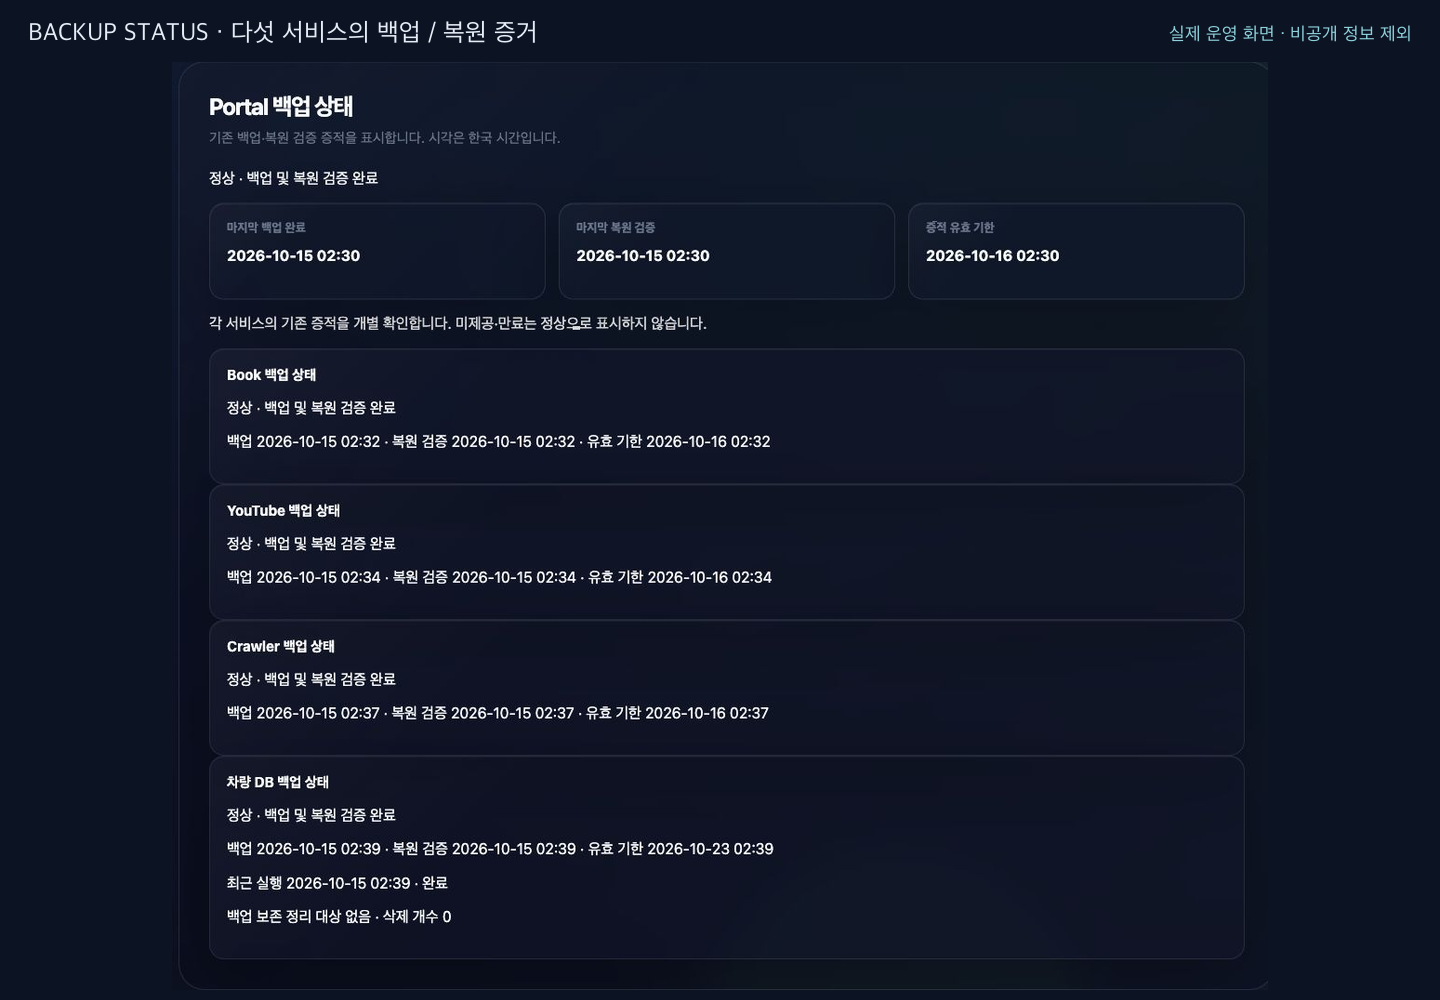
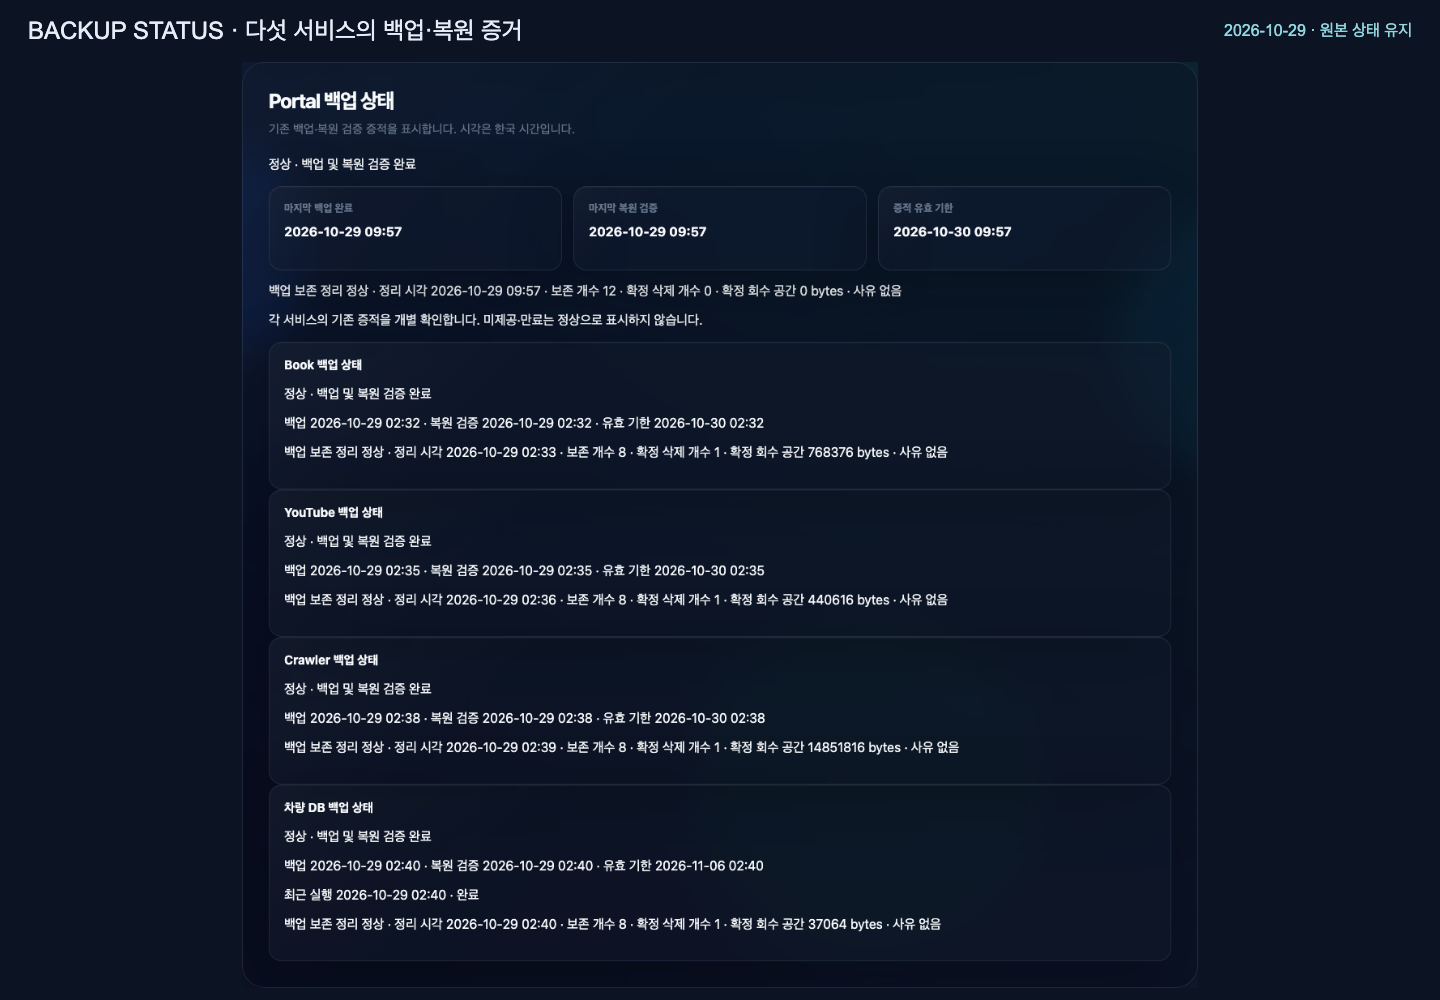
문서: README 화면과 운영 구성도 최신화

diff --git a/tests/test_documentation_index.py b/tests/test_documentation_index.py
@@ -185,7 +185,10 @@ class DocumentationIndexTests(unittest.TestCase):
         self.assertIn("crawler-worker Service", content)
         self.assertIn("youtube-memo Service", content)
         self.assertIn("book-memo Service", content)
-        self.assertIn("서비스별 PVC · 단일 writer", content)
+        self.assertIn("Portal: 평상시 1개 · 교체 중 최대 2개 · 공유 세션", content)
+        self.assertIn("Book·YouTube·Crawler: 단일 writer", content)
+        self.assertIn("1. Portal (온라인)", content)
+        self.assertIn("YES24 검색 · 목차 선택 · 메모", content)
         self.assertIn("Portal PVC · Crawler PVC · YouTube PVC · Book PVC", content)
         self.assertIn("비공개 callback upstream", content)
         self.assertIn("GitHub Actions · 약 5분 공개 health", content)

diff --git a/README.md b/README.md
@@ -15,7 +15,7 @@
 | 영역 | 구현·운영 범위 |
 |---|---|
 | 애플리케이션 | FastAPI API, 서버 렌더링 화면, 서비스 통합 검색, 파일·메모·기사·차량 데이터 관리 |
-| 데이터 보호 | SQLite 트랜잭션, 요청 중복 방지, 편집 충돌 검사, 파일 배타적 생성, 단일 writer |
+| 데이터 보호 | SQLite 트랜잭션, 요청 중복 방지, 편집 충돌 검사, 파일 배타적 생성, 앱별 writer 경계·Portal 공유 상태 |
 | 운영 | K3s·Compose 실행 위치 구분, 이미지 배포·원복, 상태 검사, 제한형 복구 |
 | 관측과 복구 | 내부 지표·외부 health, 장애 알림, 암호화 백업·격리 복원, 보관 정리·누락 감지 |
 | 검증 | 서비스별 회귀 테스트, 브라우저 검사, 운영 도구 계약 검사, CI·보안 검사 |
@@ -28,13 +28,13 @@
 | 파일함 | 다중 업로드, 폴더·파일 검색/이동/이름 변경, ZIP 다운로드, 휴지통·충돌 방지 복원, 개인 기사 보관 |
 | News Hub | RSS 뉴스 수집·검색·보관, Telegram 알림 분류, 수집 최신성 확인 |
 | YouTube Memo | 영상 등록, 타임스탬프 메모, 편집·태그·페이지 이동, JSON/Markdown 내보내기·선택 내보내기·JSON 가져오기·휴지통 |
-| Book Memo | 책 검색·책장, 목차 체크·코멘트·메모, 편집·페이지 이동, JSON/Markdown 내보내기·선택 내보내기·JSON 가져오기·휴지통 |
+| Book Memo | YES24 도서 검색·목차 미리보기·선택 저장, 책장·진행률·코멘트·메모, JSON/Markdown 내보내기·선택 내보내기·JSON 가져오기·휴지통 |
 | 차량관리 | Hyundai 연동, 운행 기록·주행거리·정비 주기 관리, Telegram 명령과 운행 종료 알림 |
 | HomeOps | 허용된 대상의 진단·승인형 조치, 재시작 요청 중복 방지, 실행 이력 |
 
 ## 주요 화면
 
-서비스 이름 옆 화살표를 누르면 설명과 이미지가 펼쳐집니다. 이미지는 **1440 × 1000** 크기이며 촬영 당시 화면입니다. [촬영 범위·기존 예시 안내](docs/images/README.md)
+서비스 이름 옆 화살표를 누르면 설명과 이미지가 펼쳐집니다. 이미지는 **1440 × 1000** 크기이며 조회 시점의 상태입니다. 서비스 화면은 2026-10-29, Grafana는 2026-10-30에 다시 촬영했으며, 과거 Telegram 예시는 별도로 표시했습니다. [촬영 범위·기존 예시 안내](docs/images/README.md)
 
 <details>
 <summary>Portal · 서비스 허브와 전체 검색</summary>
@@ -57,9 +57,13 @@
 <details>
 <summary>Book Memo · 책장과 기록 관리</summary>
 
-책 검색·진행률·목차 진입점과 로그인 후 가져오기·내보내기 위치를 확인합니다. 긴 목차는 화면에서 접어 책장이 보이도록 촬영했습니다.
+YES24 도서 검색과 로그인 후 가져오기·선택 내보내기 위치를 확인합니다. 개인 책장 대신 공개 도서의 검색 결과를 촬영했습니다.
 
-<img src="docs/images/book-memo.png" alt="현재 Book Memo의 정렬된 가져오기 버튼 검색 내보내기와 책장" width="100%">
+<img src="docs/images/book-memo.png" alt="2026-10-29 Book Memo의 YES24 도서 검색과 가져오기·내보내기" width="100%">
+
+목차는 미리보기에서 원하는 항목을 골라 저장합니다. 실제 조회한 332개 후보 중 화면에 보이는 구간이며, 최대 500개를 넘으면 부분 표시 안내가 나옵니다. 촬영 중에는 책·목차를 저장하지 않았습니다.
+
+<img src="docs/images/book-toc-preview.png" alt="YES24 목차 미리보기의 출처 링크·선택 개수·목차 체크박스" width="100%">
 
 </details>
 
@@ -107,7 +111,7 @@
 
 외부 웹 요청은 Cloudflare Tunnel → Compose의 Caddy → K3s Service로 전달됩니다. Portal은 NodePort로 진입하고, 뉴스·책·영상은 각각의 K3s Service가 처리합니다. 차량 OAuth callback은 Caddy를 거치지 않는 별도 Tunnel 경로입니다. 구성도는 실제 실행 중인 서비스·저장소·timer와 코드에 정의된 데이터 흐름을 대조해 작성했습니다.
 
-K3s의 웹 앱 4개와 Compose의 차량관리·SystemAgent·HomeOps는 역할을 나눠 운영합니다. 백업은 단일 timer가 Portal → Book → YouTube → Crawler → 차량 DB 순으로 실행하며, 차량 백업 감시 결과는 고정 ConfigMap → Relay → Portal 관리자 화면으로 전달됩니다. 개별 실행의 성공 여부는 구성도와 별도로 실제 복원 증거를 확인합니다.
+K3s의 웹 앱 4개와 Compose의 차량관리·SystemAgent·HomeOps는 역할을 나눠 운영합니다. Portal은 평상시 1개 replica이며 승인된 롤링 교체 중 최대 2개를 허용하고 공유 세션·파일 쓰기 조정을 사용합니다. Book·YouTube·Crawler는 단일 writer를 유지합니다. 백업은 단일 timer가 Portal 온라인 snapshot → Book → YouTube → Crawler → 차량 DB 순으로 실행하며, 차량 백업 감시 결과는 고정 ConfigMap → Relay → Portal 관리자 화면으로 전달됩니다. 개별 실행의 성공 여부는 구성도와 별도로 실제 복원 증거를 확인합니다.
 
 | 영역 | 기술 | 선택 이유 |
 |---|---|---|
@@ -166,6 +170,8 @@ Portal·Book·YouTube·Crawler는 K3s의 Deployment·Service·readiness·PVC를 
 
 배포와 복구 전에 runtime marker와 실제 서비스 상태를 대조합니다. 표시가 누락·중복되거나 신뢰할 수 없으면 작업을 중단하고 K3s 소유 서비스는 Docker 동작에서 제외합니다. N100 제한형 자동복구와 HomeOps는 허용 대상·조건·실행 간격·횟수 제한을 사용합니다.
 
+Portal은 공유 세션·파일 쓰기 조정·온라인 snapshot을 검증한 별도 범위에서 롤링 교체를 사용합니다. Book·YouTube·Crawler의 단일 writer 제약과 구분하며, 단일 호스트의 일반적인 다중 writer 확장을 의미하지 않습니다.
+
 근거: [실행 위치 검사](scripts/runtime-service-state-reader.py), [HomeOps 동작](homeops-executor/app/services/docker_ops.py), [실행 위치 계약](tests/test_runtime_service_state.py)
 
 ### 6. 백업 파일 존재와 실제 복구 가능성 구분
@@ -180,7 +186,7 @@ Portal·Book·YouTube·Crawler는 K3s의 Deployment·Service·readiness·PVC를 
 
 | 항목 | 현재 운영 방식 |
 |---|---|
-| 백업 순서 | 매일 02:30 KST Portal→Book→YouTube→Crawler→차량 DB. 기존 네 단계가 모두 성공한 뒤 차량 호출 |
+| 백업 순서 | 매일 02:30 KST Portal 온라인 snapshot→Book→YouTube→Crawler→차량 DB. 기존 네 단계가 모두 성공한 뒤 차량 호출 |
 | 변경 감지 | 차량 DB 내용이 같으면 업로드·원격 정리 생략. 일요일에는 실제 백업·복원 검증 |
 | 차량 보관 | 일간 7·주간 4·월간 3 및 최신 7개 안전 하한. 성공 실행 기록은 30일 후 정리하되 최신·실패·불확실 기록과 증적 보존 |
 | 백업 누락 | 서버가 5분마다 완료 기록 확인,09:00 이후 당일 미완료 통보. 공유잠금 점유 시 유예 |
@@ -191,7 +197,7 @@ Portal·Book·YouTube·Crawler는 K3s의 Deployment·Service·readiness·PVC를 
 
 ### 모니터링 화면
 
-아래는 N100에서 촬영한 기존 Grafana 화면 예시입니다. 현재 수치의 증거로 사용하지 않습니다. WSL2 환경에 맞춰 node-exporter를 비활성화한 구성이라 상단의 일부 CPU·메모리 사용률 패널은 `No data`로 표시됩니다. 조회 가능한 그래프와 누락된 지표를 구분해 사용하고 있습니다.
+아래는 실제 N100 Grafana 대시보드를 다시 조회한 화면입니다. 자원 요청·제한과 CPU 추이를 확인했으며, 일부 사용률·CPU Quota 패널의 `No data`도 원본대로 남겼습니다. WSL2의 node-exporter 비활성화와 패널별 수집 한계를 구분하며, 촬영 시점의 수치를 지속 가용성 증거로 확대하지 않습니다.
 
 ![Grafana K3s 모니터링 화면](docs/images/grafana-k3s-overview.png)
 
@@ -214,9 +220,9 @@ CI 산출물과 운영 증적은 90일 보관하며, 장기 보관이 필요한 
 
 ## 현재 한계와 검증 범위
 
-단일 N100과 WSL2 구성이라 호스트 장애를 견디는 다중 노드 고가용성은 제공하지 않습니다. SQLite·파일 기반 단일 writer를 전제로 하며 다중 쓰기 인스턴스 확장에는 저장 구조 변경이 필요합니다. Grafana 일부 호스트 지표는 수집되지 않으며 운영 통신 차단 정책은 미적용 상태입니다.
+단일 N100과 WSL2 구성이라 호스트 장애를 견디는 다중 노드 고가용성은 제공하지 않습니다. Book·YouTube·Crawler는 단일 writer를 유지하며, Portal의 동시 쓰기는 같은 호스트의 제한된 롤링 교체·공유 상태 검증 범위입니다. 일반적인 다중 호스트 쓰기 확장과 구분합니다. Grafana 일부 호스트 지표는 수집되지 않으며 운영 통신 차단 정책은 미적용 상태입니다.
 
-메모 재시도 보호는 지정된 쓰기 경로에 적용됩니다. 탭 종료 후 초안 복구나 모든 중간 데이터 변경의 복원은 보장하지 않습니다. SLI·에러 버짓·RTO/RPO의 종합 실측과 인증의 장기 유지·Telegram 단말 수신은 추가 확인이 필요합니다. 차량을 포함한 정기 실행과 기간 만료 사본의 실제 자동 삭제는 이미지나 CI 대신 각 실행 기록·복원 증거·삭제 결과를 대조해 판단합니다.
+메모 재시도 보호는 지정된 쓰기 경로에 적용됩니다. 탭 종료 후 초안 복구나 모든 중간 데이터 변경의 복원은 보장하지 않습니다. SLI·에러 버짓·전체 RTO/RPO의 종합 실측과 인증의 장기 유지는 추가 확인이 필요합니다. 합성 경보의 전송·시험 메시지의 Telegram 단말 수신은 확인했으며 실제 장애의 자연 발생 시 동작은 별도 관찰합니다. 차량을 포함한 정기 실행과 기간 만료 사본의 실제 자동 삭제는 이미지나 CI 대신 각 실행 기록·복원 증거·삭제 결과를 대조해 판단합니다.
 
 ## 빠른 상태 확인
 

diff --git a/docs/images/README.md b/docs/images/README.md
@@ -8,23 +8,25 @@
 
 | 이미지 | 반영 내용 | 원본·표시 범위 | 비고 |
 |---|---|---|---|
-| [Portal](portal-dashboard.png) | 서비스 카드와 전체 검색 대상 선택 | 현재 공개 서비스 재촬영 | 미구현 자동매매 카드는 실제 표시인 `나중에` 유지 |
-| [News Hub](news-hub.png) | 수집 최신성·성공 시각과 세계 경제·IT·AI 주제 | 현재 공개 서비스 재촬영 | 강제 수집 미실행 |
-| [Book Memo](book-memo.png) | 검색·책장·목차 진입점·가져오기·내보내기 | 현재 공개 서비스 재촬영 | 목차 접기만 수행, 쓰기·삭제 미실행 |
-| [YouTube Memo](youtube-memo.png) | 영상 등록·목록·가져오기·내보내기 | 현재 공개 서비스 재촬영 | 로그인 전 쓰기 제한 유지 |
-| [파일함](file-manager.png) | 인증된 파일 작업 도구 | 현재 운영 서버 HTML을 임시 로컬 뷰어에서 촬영 | 개인 파일 정보 제외, 데이터 작업 미실행 |
-| [관리자 상태](admin-status.png) | 서버 상태와 Portal 백업 요약 | 현재 운영 서버 HTML을 임시 로컬 뷰어에서 촬영 | 내부 주소·보안 이벤트 상세 제외 |
-| [백업 상태](admin-backup-status.png) | Portal·Book·YouTube·Crawler·차량 DB 백업·복원 증거 | 같은 운영 관리자 응답의 백업 영역만 촬영 | 조회 시점의 원본 상태 유지 |
-| [Grafana](grafana-k3s-overview.png) | K3s 자원 요청·제한과 네임스페이스 그래프 | 기존 실제 촬영 예시의 비율·내용 보존 | 현재 수치 아님, 일부 사용률 패널 `No data` 유지 |
-| [차량 Telegram](car-care-telegram-status.png) | 운행·정비 알림 형식 | 기존 실제 촬영 예시의 비율·내용 보존 | 현재 차량 상태 아님, 추가 명령·메시지 전송 없음 |
-| [운영 구성도](personal-server-architecture-v2.svg) | 공개 경로·K3s/Compose 배치·PVC·다섯 단계 백업·상태 전달·관측 | 현재 코드·실제 실행 주체·timer와 대조해 재작성 | 실시간 지표나 개별 백업 성공의 증거 아님 |
+| [Portal](portal-dashboard.png) | 서비스 카드와 전체 검색 대상 선택 | 2026-10-29 공개 서비스 조회 | 미구현 자동매매 카드는 실제 표시인 `나중에` 유지 |
+| [News Hub](news-hub.png) | 수집 최신성·성공 시각과 세계 경제·IT·AI 주제 | 2026-10-29 공개 서비스 조회 | 강제 수집 미실행 |
+| [Book Memo](book-memo.png) | YES24 도서 검색·가져오기·내보내기 | 2026-10-29 인증 후 공개 도서 검색 | 개인 책장 내용 제외 |
+| [목차 미리보기](book-toc-preview.png) | YES24 출처·332개 후보·선택 개수·체크박스 | 2026-10-29 검색 결과 카드의 목차 미리보기 | 조회만 수행함. 책·목차 저장 미실행 |
+| [YouTube Memo](youtube-memo.png) | 영상 등록·목록·가져오기·내보내기 | 2026-10-29 공개 서비스 조회 | 로그인 전 쓰기 제한 유지 |
+| [파일함](file-manager.png) | 인증된 파일 작업 도구 | 2026-10-29 실제 HTTPS 화면의 상단 도구 영역 | 개인 파일 정보 제외, 데이터 작업 미실행 |
+| [관리자 상태](admin-status.png) | 서버 자원과 서비스 상태 | 2026-10-29 실제 HTTPS 관리자 화면의 서버 영역 | 내부 주소·보안 이벤트 상세 제외 |
+| [백업 상태](admin-backup-status.png) | Portal·Book·YouTube·Crawler·차량 DB 백업·복원 증거 | 2026-10-29 같은 관리자 화면의 백업 영역 | 원본 시각·상태·보관 수 유지 |
+| [Grafana](grafana-k3s-overview.png) | K3s 자원 요청·제한과 CPU 추이 | 2026-10-30 실제 인증된 대시보드 조회 | 일부 사용률·CPU Quota 패널 `No data` 유지 |
+| [차량 Telegram](car-care-telegram-status.png) | 운행·정비 알림 형식 | 기존 9월 실제 촬영 예시 보존 | 현재 차량 상태 아님, 추가 명령·메시지 전송 없음 |
+| [운영 구성도](personal-server-architecture-v2.svg) | 공개 경로·K3s/Compose 배치·앱별 writer 경계·순차 백업·관측 | 현재 코드·실제 Portal replicas/롤링 전략·운영 기록과 대조 | Portal 평상시 1개·교체 중 최대 2개, 공유 세션·온라인 백업 반영 |
 
 ## 원본과 공개 범위
 
-- 공개 화면은 실제 서비스 응답을 촬영함. 관리자·파일함은 승인된 읽기 범위에서 실제 운영 HTML을 메모리로만 받아 현재 소스의 정적 자산과 함께 표시함. 인증 자격 증명과 세션 쿠키는 이미지·저장소에 저장하지 않음.
-- 프레임의 제목·예시 표시는 설명용이며 서비스 데이터와 분리함. 수치·성공 상태·기사·메모를 새로 만들거나 보정하지 않음.
-- 관리자 백업 표시는 원본 증거의 시각과 상태를 그대로 사용함. 이미지 교체는 운영 배포·백업 실행·삭제·인증 변경을 포함하지 않음.
-- Grafana·Telegram은 새로운 촬영본이 아니므로 프레임과 README에 기존 예시임을 명시함. WSL2에서 node-exporter를 비활성화한 구성과 일부 사용률 지표의 한계를 유지함.
+- 서비스의 실제 브라우저 화면을 촬영함. 관리자·파일함·Book은 기존 인증 정보를 메모리에서만 사용하고 임시 브라우저 컨텍스트를 종료함. 자격 증명·세션 쿠키·개인 파일 목록을 이미지·저장소에 저장하지 않음.
+- Grafana는 기존 인증으로 실제 서버 응답과 지표 질의를 읽어 표시함. 읽기 요청과 `/api/ds/query`만 허용한 임시 응답 전달 경로를 사용하며 대시보드·데이터 소스 설정은 저장하지 않음.
+- 프레임의 제목·촬영 날짜는 설명용임. 수치·성공 상태·기사·메모를 새로 만들거나 보정하지 않음. 관리자 백업의 시각·상태와 Grafana의 `No data`·과할당 비율을 원본대로 유지함.
+- 화면은 촬영 시점의 상태이며 지속 가용성·현재 수치·백업 복구 가능성 전체의 증거로 확대하지 않음. WSL2에서 node-exporter를 비활성화한 구성과 일부 지표의 한계를 유지함.
+- Telegram은 과거 예시임을 프레임과 README에 명시함. 이미지 교체는 운영 배포·백업 실행·데이터 저장/삭제·인증 설정 변경을 포함하지 않음.
 
 ## 검증 기준
 

diff --git a/docs/20260921_프로젝트보완_개발계획.md b/docs/20260921_프로젝트보완_개발계획.md
@@ -1,5 +1,9 @@
 # 프로젝트 개발·검증 현재 상태
 
+## README 화면·운영 구성도 최신화
+
+사용자의 문서·README 이미지 최신화 요청에 따라 기존 화면 8개를 실제 서비스 조회로 교체하고 YES24 목차 미리보기 1개를 추가함. 과거 Telegram 이미지는 기존 예시 표시와 함께 보존함. 관리자·파일함의 개인 정보 영역을 제외하고 목차 조회만 수행하여 책·목차를 저장하지 않음. Portal 평상시 1개·롤링 교체 중 최대 2개와 공유 세션·온라인 백업을 구성도와 본문에 반영하며 Book·YouTube·Crawler의 단일 writer 경계를 구분함. [이미지별 촬영 범위](images/README.md)에 날짜·원본·한계를 기록함. 기능 영향 없는 문서·이미지 변경이므로 주 담당 1명이 시각 확인·문서 계약·필수 검사와 PR CI를 수행하며, 앱 코드·운영 설정 변경 및 N100 동기화·배포는 포함하지 않음. 최종 검사·병합 결과는 해당 PR에 기록함.
+
 ## 북 메모 YES24 검색·목차 전환
 
 목차 미리보기 후속: 사용자의 “목차 미리보기 후 선택해서 추가” 선택으로 자동 저장을 추가하지 않고 기존 수동 선택 경로를 보완함. API 후보 상한120→500, 초과 시 부분 표시 안내, 검색/상세의 선택 수, 재조회 실패·성공과 로그인 초안 복원에서 기존 선택 보존을 구현함. 실제 클린 코드 응답은 공백·중복 등을 정리한332후보와 출처 링크를 확인함. 미리보기 자체는 DB를 만들거나 수정하지 않고 선택한 항목만 저장하며 기존 목차·메모를 보존함. 주 담당이 구현·자기 검증하고 별도 Sol high가 실제 diff·초안/저장 경계·테스트를 독립 검토함. PR #461의 코드·필수 PR/main CI·엄격 작성 이력 기반 독립 검토를 통과하고 별도 승인으로 아래 후속 운영 적용까지 완료함.
